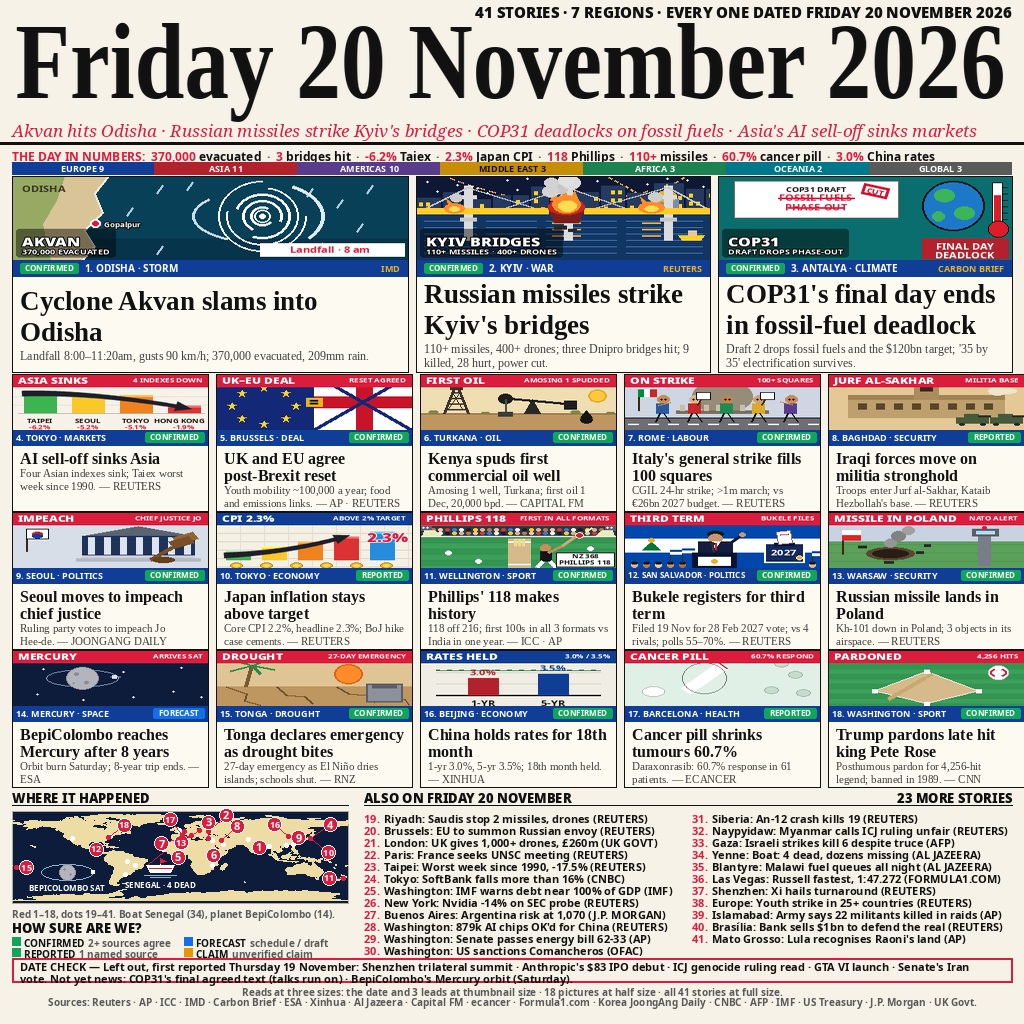
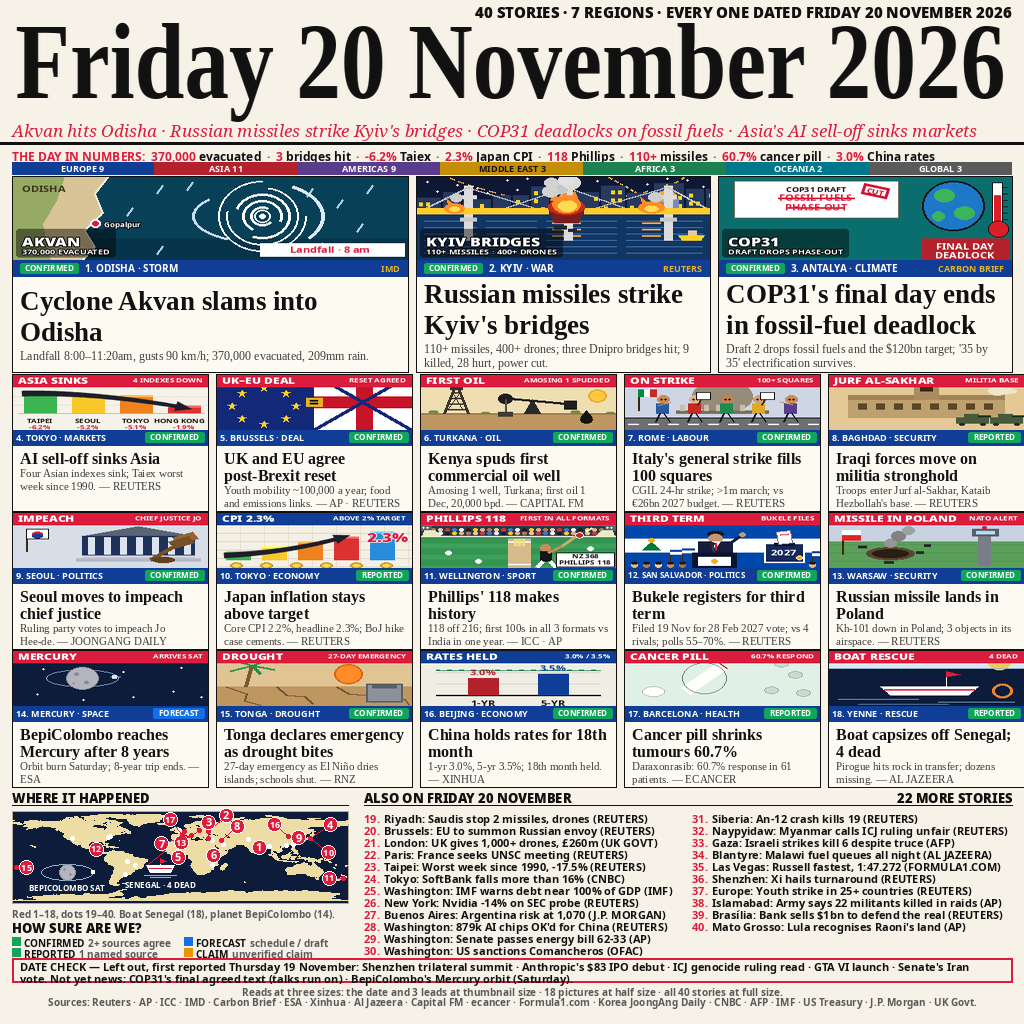
v18: Senegal swap — Pete Rose out, Senegal as full drawn card 18 (boat is its map marker); 41->40 stories

diff --git a/draw.py b/draw.py
@@ -210,6 +210,17 @@ FRONT = [
     # re-opens a count gap vs #6 (44) — that is what this version
     # measures. Tonga 15 and Pete Rose 18 stay (drawn by #7, so swapping
     # them WOULD trade a duel).
+    # v18 SWAP: card 18 Pete Rose -> Senegal (full drawn card). Audit
+    # arithmetic: Senegal is drawn by #3 AND #7; Pete Rose by #7 only.
+    # The swap removes #3's LAST edge (Senegal card 11 vs our callout)
+    # and is neutral vs #7 (one match lost, one gained) and neutral on
+    # breadth vs the other eight (neither story drawn by them). The
+    # price: the Yenne also-list line leaves with the promotion (v17
+    # precedent — a story promoted to a full card leaves the also-list,
+    # no double-counting), so the count drops 41->40 and #6's count gap
+    # widens by one. Tonga stays (see the v18 note in NOTES.md: Pete
+    # Rose is the better outgoing card — it keeps OCEANIA at 2 and every
+    # region >=2).
     (14, "MERCURY", "SPACE", "ESA", "REPORTED",
      "BepiColombo reaches Mercury after 8 years",
      "Orbit burn Saturday; 8-year trip ends.",
@@ -226,10 +237,10 @@ FRONT = [
      "Cancer pill shrinks tumours 60.7%",
      "Daraxonrasib: 60.7% response in 61 patients.",
      "CANCER PILL", "60.7% RESPOND", "cancerpill", "REPORTED"),
-    (18, "WASHINGTON", "SPORT", "CNN", "REPORTED",
-     "Trump pardons late hit king Pete Rose",
-     "Posthumous pardon for 4,256-hit legend; banned in 1989.",
-     "PARDONED", "4,256 HITS", "peterose", "CONFIRMED"),
+    (18, "YENNE", "RESCUE", "AL JAZEERA", "REPORTED",
+     "Boat capsizes off Senegal; 4 dead",
+     "Pirogue hits rock in transfer; dozens missing.",
+     "BOAT RESCUE", "4 DEAD", "senegal", "REPORTED"),
 ]
 
 # num, city, text, source — every item carries its outlet (the top-3 pattern);
@@ -254,17 +265,20 @@ ALSO = [
     # 44->41). 23 items, 19-41; the also-list is 12 rows now.
     (32, "Naypyidaw", "Myanmar calls ICJ ruling unfair", "REUTERS"),
     (33, "Gaza", "Israeli strikes kill 6 despite truce", "AFP"),
-    (34, "Yenne", "Boat: 4 dead, dozens missing", "AL JAZEERA"),
-    (35, "Blantyre", "Malawi fuel queues all night", "AL JAZEERA"),
-    (36, "Las Vegas", "Russell fastest, 1:47.272", "FORMULA1.COM"),
-    (37, "Shenzhen", "Xi hails turnaround", "REUTERS"),
-    (38, "Europe", "Youth strike in 25+ countries", "REUTERS"),
+    # v18: 34 Yenne leaves the also-list — promoted to drawn card 18
+    # (the boat callout on the map is now the card's marker). The rest
+    # renumber (35->34, 36->35, 37->36, 38->37, 39->38, 40->39, 41->40).
+    # 22 items, 19-40.
+    (34, "Blantyre", "Malawi fuel queues all night", "AL JAZEERA"),
+    (35, "Las Vegas", "Russell fastest, 1:47.272", "FORMULA1.COM"),
+    (36, "Shenzhen", "Xi hails turnaround", "REUTERS"),
+    (37, "Europe", "Youth strike in 25+ countries", "REUTERS"),
     # v15: 3 new also-list lines (44 stories total). Pakistan 22
     # militants (AP, 19 Nov), Brazil $1bn sale (19 Nov, first spot sale
     # since Dec 2024), Raoni land recognised (AP, 19 Nov).
-    (39, "Islamabad", "Army says 22 militants killed in raids", "AP"),
-    (40, "Brasília", "Bank sells $1bn to defend the real", "REUTERS"),
-    (41, "Mato Grosso", "Lula recognises Raoni's land", "AP"),
+    (38, "Islamabad", "Army says 22 militants killed in raids", "AP"),
+    (39, "Brasília", "Bank sells $1bn to defend the real", "REUTERS"),
+    (40, "Mato Grosso", "Lula recognises Raoni's land", "AP"),
 ]
 
 # v16: S&P -3.7% dropped (weakest figure, US-only, the dropped timeline's
@@ -290,20 +304,21 @@ STATS = [
 # ASIA 11: 1 Akvan, 4 Nikkei, 9 Seoul, 10 Japan CPI, 16 China rates,
 #   23 Taipei, 24 Tokyo, 31 An-12, 32 Myanmar reaction, 37 Shenzhen,
 #   39 Pakistan raids. (Mongolia out.)
-# AMERICAS 10: 12 Bukele, 18 Pete Rose, 26 Nvidia probe, 27 Argentina
-#   risk, 28 AI chips, 29 Senate, 30 sanctions, 36 Las Vegas, 40 Brazil
-#   $1bn sale, 41 Raoni land.
+# AMERICAS 9: 12 Bukele, 26 Nvidia probe, 27 Argentina risk, 28 AI
+#   chips, 29 Senate, 30 sanctions, 35 Las Vegas, 39 Brazil $1bn sale,
+#   40 Raoni land. (Pete Rose out.)
 # MIDDLE EAST 3: 8 Iraq, 19 Riyadh, 33 Gaza strikes.
-# AFRICA 3: 6 Kenya oil, 34 Yenne, 35 Blantyre. (Sudan + Somalia out.)
+# AFRICA 3: 6 Kenya oil, 18 Yenne (card now, was also-list 34),
+#   34 Blantyre.
 # OCEANIA 2: 11 Phillips (Wellington), 15 Tonga drought.
 # GLOBAL 3: 3 COP31 (global climate summit), 14 BepiColombo, 25 IMF debt
 #   warning.
-# Total 9+11+10+3+3+2+3 = 41.
+# Total 9+11+9+3+3+2+3 = 40.
 # (label, count, fill, text colour)
 REGIONS = [
     ("EUROPE", 9, (16, 62, 150), "white"),
     ("ASIA", 11, (179, 34, 44), "white"),
-    ("AMERICAS", 10, (90, 60, 140), "white"),
+    ("AMERICAS", 9, (90, 60, 140), "white"),
     ("MIDDLE EAST", 3, (196, 142, 8), (17, 17, 17)),
     ("AFRICA", 3, (30, 130, 80), "white"),
     ("OCEANIA", 2, (0, 120, 140), "white"),
@@ -324,12 +339,14 @@ PINS = {
     5: (4.4, 50.8), 6: (35.9, 3.1), 7: (12.5, 41.9), 8: (44.2, 32.8),
     9: (127.0, 37.5), 10: (139.7, 35.7), 11: (174.8, -41.3),
     12: (-89.2, 13.7), 13: (21.0, 52.2),
-    # v15: 15 Nuku'alofa (-175.2, -21.1), 18 Washington (-77.0, 38.9).
+    # v15: 15 Nuku'alofa (-175.2, -21.1).
     # v17: 14 Sudan removed (card swapped out); 16 is now Beijing
     # (116.4, 39.9) for the China-rates card; 17 is now Barcelona
     # (2.2, 41.4) for the cancer-pill card.
+    # v18: 18 Washington removed (Pete Rose leaves). Card 18 Senegal
+    # gets NO pin: its map marker is the boat callout, like BepiColombo
+    # (card 14) has the Mercury callout instead of a pin.
     15: (-175.2, -21.1), 16: (116.4, 39.9), 17: (2.2, 41.4),
-    18: (-77.0, 38.9),
 }
 DOTS = {
     19: (46.7, 24.7), 20: (4.4, 50.8), 21: (-0.1, 51.5), 22: (2.4, 48.9),
@@ -339,10 +356,13 @@ DOTS = {
     # v17: 36 Barcelona and 37 Beijing removed (now pins 17/16); the rest
     # renumber (33->32, 34->33, 35->34, 38->35, 39->36, 40->37, 41->38,
     # 42->39, 43->40, 44->41).
-    32: (96.2, 19.8), 33: (34.4, 31.5), 34: (-17.2, 14.7),
-    35: (35.0, -15.8), 36: (-115.1, 36.2), 37: (114.1, 22.5),
-    38: (4.4, 50.8), 39: (73.1, 33.7), 40: (-47.9, -15.8),
-    41: (-56.5, -9.0),
+    32: (96.2, 19.8), 33: (34.4, 31.5),
+    # v18: 34 Yenne removed (now card 18; the boat callout is its
+    # marker). The rest renumber (35->34, 36->35, 37->36, 38->37,
+    # 39->38, 40->39, 41->40).
+    34: (35.0, -15.8), 35: (-115.1, 36.2), 36: (114.1, 22.5),
+    37: (4.4, 50.8), 38: (73.1, 33.7), 39: (-47.9, -15.8),
+    40: (-56.5, -9.0),
 }
 # v5: 32 BepiColombo has no Earth location (Mercury orbit insertion) —
 # it gets no dot, by design.
@@ -1109,25 +1129,6 @@ def art_image(key, w, h):
                                    (36, 22, 52, 14), (36, 22, 58, 28),
                                    (36, 22, 44, 34)):
             d.line([fx0, fy0, fx1, fy1], fill=(40, 140, 70), width=3)
-    elif key == "peterose":
-        # v15: Pete Rose, pardoned — a baseball diamond: green
-        # outfield, tan infield, white bases, a bat and a stitched ball.
-        # Original PIL vector code.
-        d.rectangle([0, 0, w, h], fill=(60, 160, 90))
-        for sy in range(20, h, 14):
-            d.rectangle([0, sy, w, sy + 7], fill=(52, 148, 82))
-        d.polygon([(98, 30), (150, 58), (98, 76), (46, 58)],
-                  fill=(214, 186, 140))
-        d.line([(98, 30), (150, 58), (98, 76), (46, 58), (98, 30)],
-               fill="white", width=1)
-        for bx, by in ((96, 28), (148, 56), (96, 74), (44, 56)):
-            d.rectangle([bx, by, bx + 5, by + 5], fill="white")
-        d.line([60, 70, 96, 40], fill=(200, 170, 110), width=5)
-        d.line([96, 40, 104, 34], fill=(200, 170, 110), width=3)
-        d.ellipse([160, 22, 180, 42], fill="white",
-                  outline=(200, 200, 200))
-        d.arc([162, 26, 178, 38], 300, 60, fill=RED, width=2)
-        d.arc([162, 26, 178, 38], 120, 240, fill=RED, width=2)
     elif key == "bepicolombo":
         # v17: BepiColombo at Mercury — starfield, the cratered planet on
         # its orbit, and the spacecraft. Original PIL vector code.
@@ -1175,6 +1176,22 @@ def art_image(key, w, h):
         d.line([62, 58, 98, 22], fill="white", width=14)
         d.ellipse([58, 18, 102, 62], outline=(120, 120, 120), width=1)
         d.line([80, 40, 80, 40], fill="white")
+    elif key == "senegal":
+        # v18: the Senegal boat rescue — pirogue on a dark sea under a
+        # pale sky, red flag, orange life-ring. Original PIL vector code.
+        d.rectangle([0, 0, w, h], fill=(12, 28, 58))
+        d.rectangle([0, 0, w, 26], fill=(220, 230, 240))
+        d.ellipse([160, 6, 182, 28], fill=(240, 200, 90))
+        d.line([0, 26, w, 26], fill=(140, 180, 210), width=1)
+        d.line([(118, 30), (118, 52)], fill="white", width=1)  # mast
+        d.polygon([(118, 30), (118, 38), (132, 35)], fill=RED)  # flag
+        d.polygon([(52, 52), (150, 52), (140, 64), (62, 64)],
+                  fill="white")  # pirogue hull
+        d.line([(56, 56), (146, 56)], fill=RED, width=2)  # hull stripe
+        d.ellipse([164, 48, 184, 68], outline=(240, 130, 40), width=3)
+        d.line([(10, 70), (90, 70)], fill=(140, 180, 210), width=1)
+        d.line([(110, 74), (186, 74)], fill=(140, 180, 210), width=1)
+        d.line([(30, 77), (120, 77)], fill=(100, 150, 190), width=1)
     return img
 
 # pixel nudges so clustered pins stay readable (map is small): the pin circle
@@ -1197,7 +1214,8 @@ def art_image(key, w, h):
 # (27.8px from Seoul, >=26px from every neighbour). 17 is now
 # Barcelona: the base sits 6.4px from the Warsaw pin, so (-12,-16)
 # pushes it N (25.1px from the Rome pin, >=14.5px from the London dot).
-# 18 Washington sits on four white dots (-77, 38.9), pushed NE.
+# v18: 18 Washington removed (Pete Rose leaves); card 18 Senegal has
+# no pin (boat callout is its marker), so no offset is needed.
 # BUILD SLIP (caught by the numeric check before viewing): apply7a
 # forgot PIN_OFF entirely, so the first v17 render reused Mongolia's
 # (2,-10) for Beijing (14.0px from Seoul — kissing circles) and
@@ -1215,7 +1233,7 @@ def art_image(key, w, h):
 PIN_OFF = {2: (18, -16), 3: (0, -16), 4: (20, -14), 5: (-6, 26),
            7: (-30, 8), 8: (16, -14), 10: (18, 14),
            11: (-14, 0), 13: (-18, 12),
-           15: (10, 0), 16: (-14, -12), 17: (-12, -16), 18: (16, -12)}
+           15: (10, 0), 16: (-14, -12), 17: (-12, -16)}
 
 
 def draw_map(d, x0, y0, mw, mh):
@@ -1261,14 +1279,18 @@ def draw_map(d, x0, y0, mw, mh):
     # dot 33 at (212.7,847.1)). So story 30 (Yenne boat, also-list
     # only until now) gets a drawn pirogue in that ocean + a red leader
     # to its dot + a white label, and the map caption names it. Zero
-    # reflow, zero shrinkage, nothing else moves. Facts re-verified
+    # reflow, zero shrinkage, nothing else moves. v18: the boat is now
+    # DRAWN CARD 18's map marker (the also-list line is gone, per the
+    # v17 promotion precedent); the leader keeps its red base dot at
+    # Yenne, like an offset pin's. Facts re-verified
     # live 2026-11-21: pirogue capsized off Yenne ~02:00 Wed 18 Nov,
     # 4 bodies recovered (Reuters via Al Jazeera, pub. 20 Nov 2026),
     # 50-100 aboard, dozens missing. Original PIL vector code only.
     # v15: boat coordinates now relative to the map box (x0, y0) — the
     # map moved down with the reflow, so the v14 absolute pixels no
     # longer apply. Offsets are the v14 values minus (12, 793).
-    _sx, _sy = project(-17.2, 14.7)  # dot 35, Yenne / Dakar
+    _sx, _sy = project(-17.2, 14.7)  # Yenne / Dakar (dot 34 until v18)
+    d.ellipse([_sx - 2, _sy - 2, _sx + 2, _sy + 2], fill=RED)
     d.line([(_sx, _sy + 3), (x0 + 136, y0 + 53)], fill=RED, width=1)
     d.line([(x0 + 148, y0 + 47), (x0 + 148, y0 + 54)], fill="white",
            width=1)  # mast
@@ -1487,7 +1509,7 @@ def main():
     deck_line = ("Akvan hits Odisha · Russian missiles strike Kyiv's bridges · "
                  "COP31 deadlocks on fossil fuels · Asia's AI sell-off sinks markets")
     d.text((12, 118), deck_line, font=F_DECKLINE, fill=RED)
-    d.text((1012, 1), "41 STORIES · 7 REGIONS · EVERY ONE DATED FRIDAY 20 NOVEMBER 2026",
+    d.text((1012, 1), "40 STORIES · 7 REGIONS · EVERY ONE DATED FRIDAY 20 NOVEMBER 2026",
            font=F_EYE, fill=INK, anchor="ra")
     d.rectangle([0, 142, W, 144], fill=INK)
 
@@ -1545,7 +1567,7 @@ def main():
     # v15: caption names the boat callout (320.2px in the 336px column,
     # probe-measured at F_TTEXT); numbers renumbered for the 44-story
     # page (BepiColombo 32, Senegal boat 35).
-    d.text((12, map_y + 118), "Red 1–18, dots 19–41. Boat Senegal (34), planet BepiColombo (14).",
+    d.text((12, map_y + 118), "Red 1–18, dots 19–40. Boat Senegal (18), planet BepiColombo (14).",
            font=F_TTEXT, fill=GREY)
     # how-sure-are-we legend under the map, 2x2 (v15: the 4-row legend
     # cost 44px; the 2x2 keeps every tag explained in 22px).
@@ -1565,7 +1587,7 @@ def main():
 
     also_x = 364
     d.text((also_x, map_y), "ALSO ON FRIDAY 20 NOVEMBER", font=F_SEC, fill=INK)
-    d.text((1012, map_y), "23 MORE STORIES", font=F_SEC, fill=INK, anchor="ra")
+    d.text((1012, map_y), "22 MORE STORIES", font=F_SEC, fill=INK, anchor="ra")
     d.line([also_x, map_y + 16, 1012, map_y + 16], fill=INK, width=1)
     col_w = 320
     rows = 12
@@ -1599,7 +1621,7 @@ def main():
     # 2 lines, 10px pitch; ink ends 1008, 15px slack) ----
     foot_y = 985
     d.text((512, foot_y), "Reads at three sizes: the date and 3 leads at thumbnail size · "
-           "18 pictures at half size · all 41 stories at full size.",
+           "18 pictures at half size · all 40 stories at full size.",
            font=F_FOOT, fill=GREY, anchor="ma")
     # v6: the pins prefix duplicated the map caption, so it is gone; the
     # BepiColombo note moved there too. Line 2 is now just the source list,
